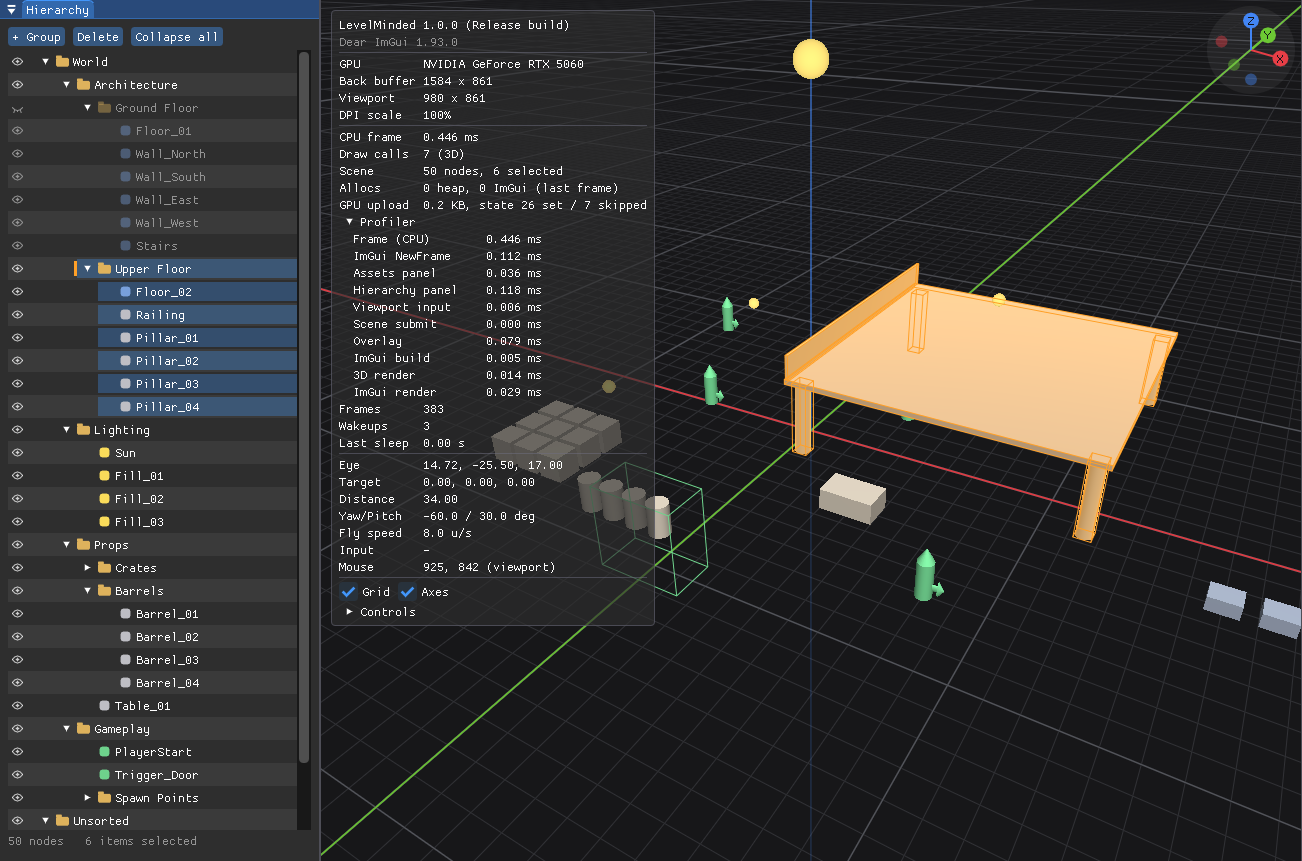
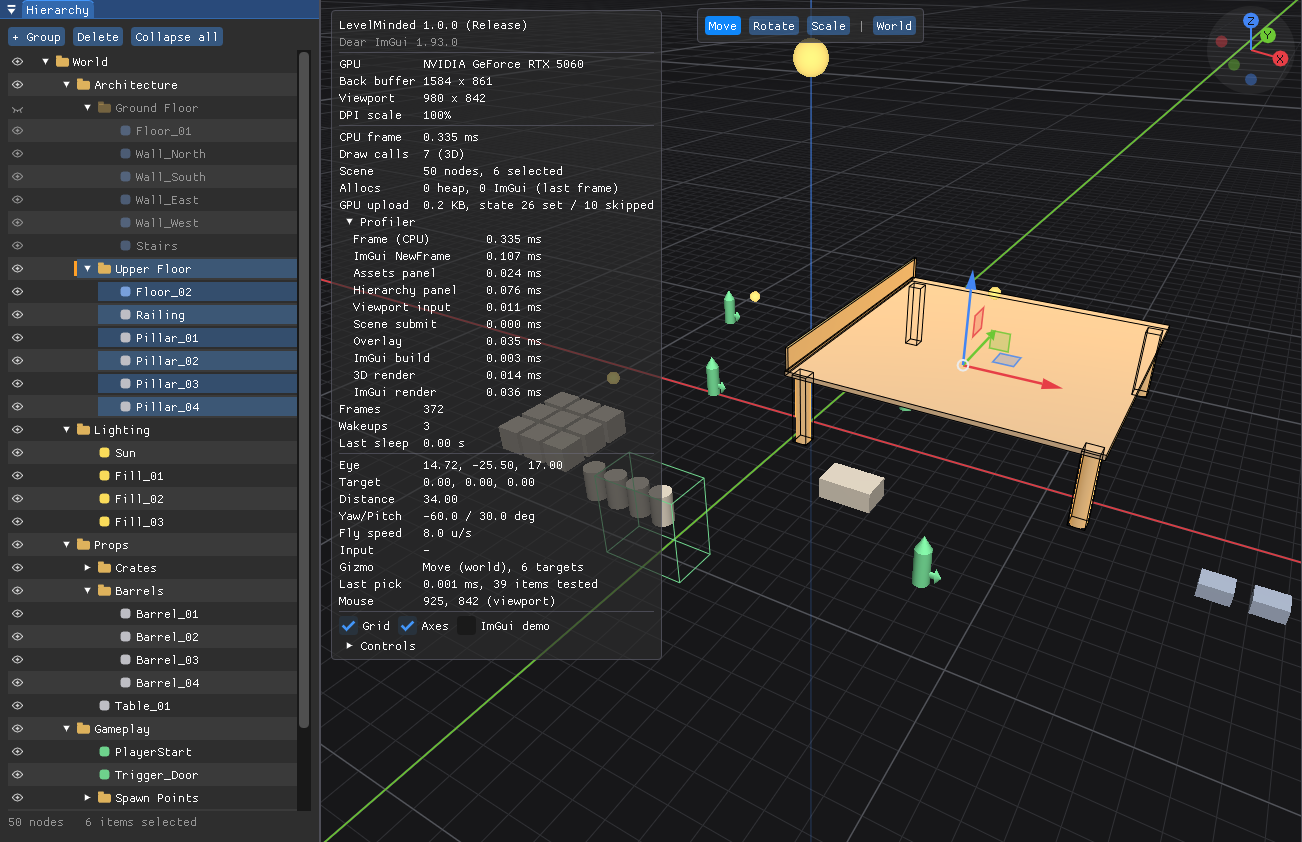
Update README for the v1.0 pre-release, new panels and roadmap
Describe v1.0 as a beta pre-release and point to building from source for
the features on main. Add the menu bar, viewport toolbar and Mods panel to
the interface overview, draft an ordered roadmap, and retake the
screenshots from the current build.

diff --git a/README.md b/README.md
@@ -4,7 +4,7 @@
 
 ![LevelMinded overview](docs/overview.png)
 
-> **Status:** v1.0 is the first public release, focused on the core editor: viewport, hierarchy and asset palette. Click selection, move / rotate / scale tools, model importing (glTF and OBJ), saving / loading maps, undo / redo and Lua mods are now on `main`.
+> **Status:** LevelMinded is in **beta**. The current download, **v1.0** (a pre-release), contains the core editor: viewport, hierarchy and asset palette. Everything else described here (click selection and the move / rotate / scale tools, model importing, saving and loading maps, undo / redo and Lua mods) is already on `main` and will be in the next release. To use it today, [build from source](#building-from-source).
 
 ## Contents
 
@@ -49,11 +49,11 @@
 
 ### Download and run
 
-1. Open the [Releases page](https://github.com/KurosaCorp/Level-Minded-V2/releases) and download `LevelMinded_v1.0.zip`.
+1. Open the [Releases page](https://github.com/KurosaCorp/Level-Minded-V2/releases) and download the zip of the latest release (currently `LevelMinded_v1.0.zip`, a pre-release).
 2. Extract the zip to any folder (for example your Desktop or `C:\Tools\LevelMinded`).
 3. Double-click **`LevelMinded.exe`**.
 
-There is nothing to install. The folder contains only:
+There is nothing to install. The folder contains only these files (the v1.0 pre-release has just the first three; the others arrive with the features in the next release):
 
 | File | Purpose |
 |---|---|
@@ -74,9 +74,12 @@ To remove LevelMinded, delete the folder. It does not write settings, registry e
 
 LevelMinded opens with a small **sample level**: a two-storey building with props, lights and gameplay markers. It lets you try every feature right away:
 
+- the **menu bar** at the top (**File**, **Edit**, **Mods**),
 - the **Hierarchy** on the left,
-- the **3D Viewport** in the center,
-- the **Assets** palette on the right.
+- the **3D Viewport** in the center, with the **Move / Rotate / Scale** toolbar,
+- the **Assets** palette on the right, with the **Mods** panel below it.
+
+The bundled sample mod greets you in the status bar at the right end of the menu bar.
 
 ## Interface Overview
 
@@ -84,11 +87,13 @@ LevelMinded opens with a small **sample level**: a two-storey building with prop
 
 | Area | What it is for |
 |---|---|
+| **Top: menu bar** | **File** (load, save, import models, exit), **Edit** (undo, redo) and **Mods** (commands added by mods, reload mods). The right end shows status messages, such as the result of the last save. |
 | **Left: Hierarchy** | The structure of your map: groups and the items inside them. Select, hide, rename, reorder and regroup. |
-| **Center: 3D Viewport** | The map in 3D, with an infinite ground grid and a free editor camera. |
-| **Right: Assets** | A palette of items you can place into the map. |
+| **Center: 3D Viewport** | The map in 3D, with an infinite ground grid, a free editor camera, click selection and the transform gizmo. The toolbar at its top switches between **Move**, **Rotate** and **Scale** and between world and local axes. |
+| **Right: Assets** | A palette of items you can place into the map: the built-in items and your imported models. |
+| **Right, below: Mods** | The loaded mods, their status, logs and their own controls. |
 
-The panels are docked and can be resized by dragging the borders between them.
+The panels are docked and can be resized by dragging the borders between them. The title bar shows the map's file name, with a `*` while it has unsaved changes.
 
 ## Center: 3D Viewport
 
@@ -393,7 +398,7 @@ LevelMinded.exe --stress 100000 --bench 300
 
 ## Known Limitations
 
-v1.0 is the foundation release. Please be aware that:
+LevelMinded is still in beta. Please be aware that:
 
 - New items are always placed at the origin; move them into place with the gizmo.
 - There is no box (drag-rectangle) selection in the viewport yet.
@@ -402,8 +407,15 @@ v1.0 is the foundation release. Please be aware that:
 
 ## Roadmap
 
-- More of the editor available to mods (custom panels, map events, reading imported model details).
-- Textures for imported models.
+Planned next, roughly in this order:
+
+- **Next release:** everything that is already on `main` (see [Status](#levelminded)), as a downloadable package.
+- **Box selection:** drag a rectangle in the viewport to select everything inside it.
+- **Better placement:** place new items where you click in the viewport (or in front of the camera) instead of at the origin, with snapping to the grid and to other items.
+- **Duplicate, copy and paste** items and groups.
+- **Textures for imported models**, plus support for Draco-compressed glTF files.
+- **A larger mod API:** custom panels, map events (loading, saving, selection changes) and access to imported model details.
+- **Signed releases**, so Windows SmartScreen no longer warns on first launch.
 
 ## Building from Source
 
@@ -422,7 +434,7 @@ cd Level-Minded-V2
 | `.\build.ps1 -Preset debug` | Debug build |
 | `.\build.ps1 -Run` | Build and launch |
 | `.\build.ps1 -Test` | Build and run the unit tests |
-| `build_release.bat` | Clean release build, tests, checks, and the packaged `dist\LevelMinded_v1.0\` folder plus a `.zip` |
+| `build_release.bat` | Clean release build, tests, checks, and the packaged `dist\LevelMinded_v<version>\` folder plus a `.zip` |
 
 The scripts find Visual Studio automatically, so no Developer Command Prompt is needed.
 
